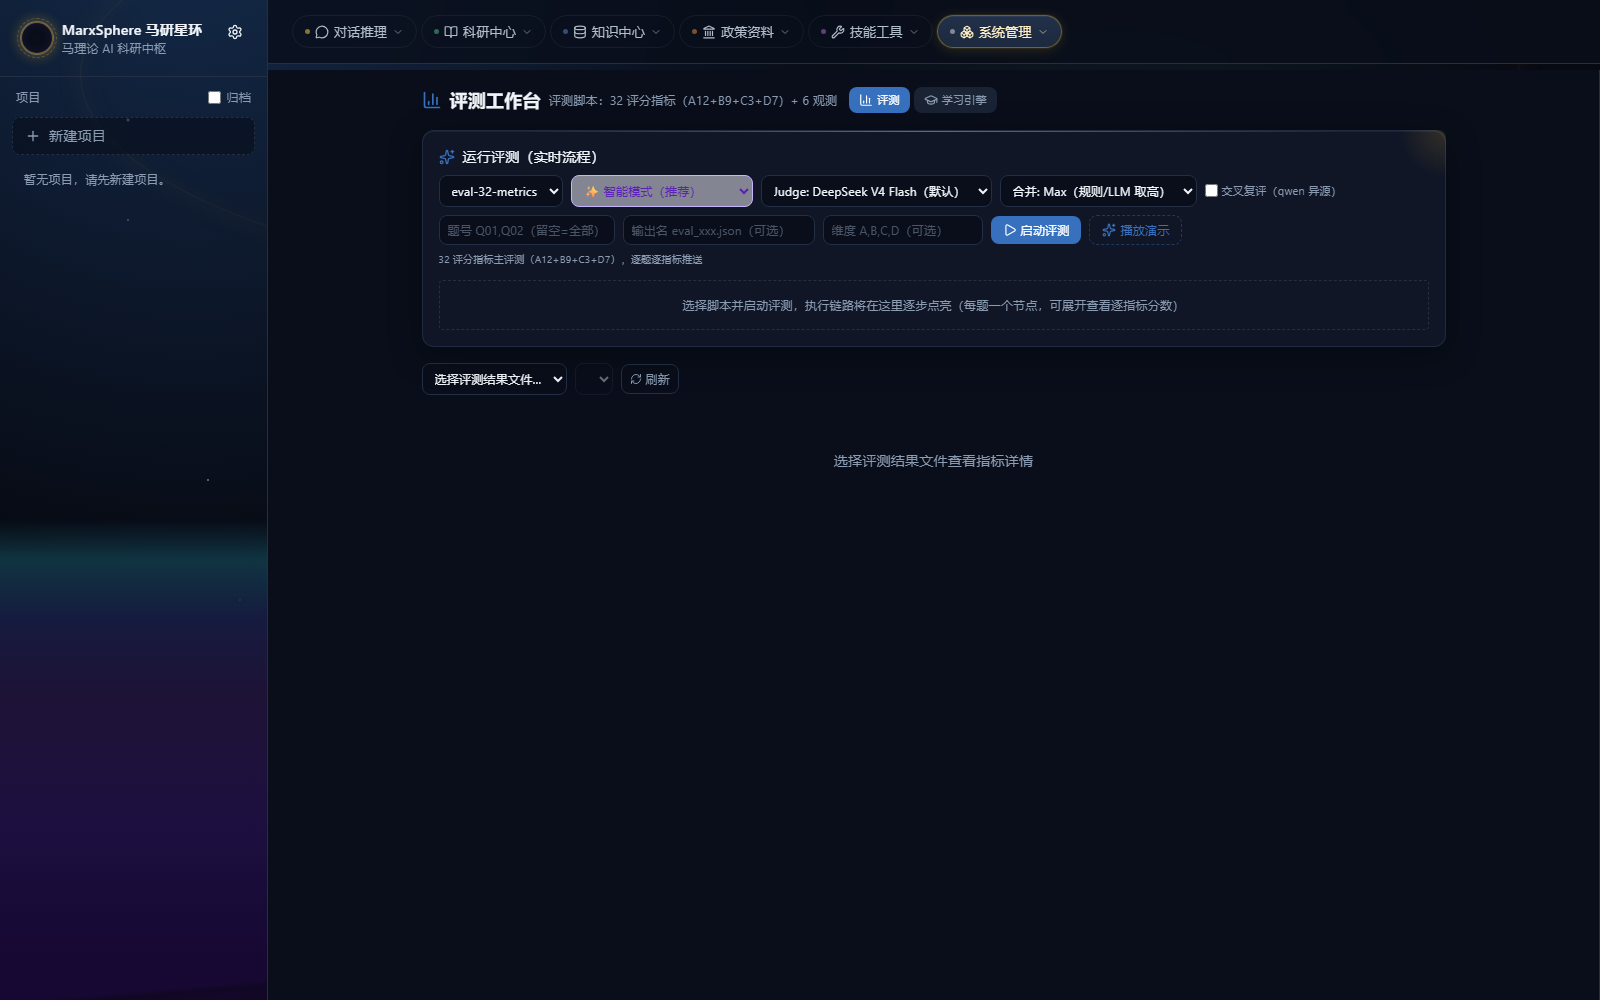
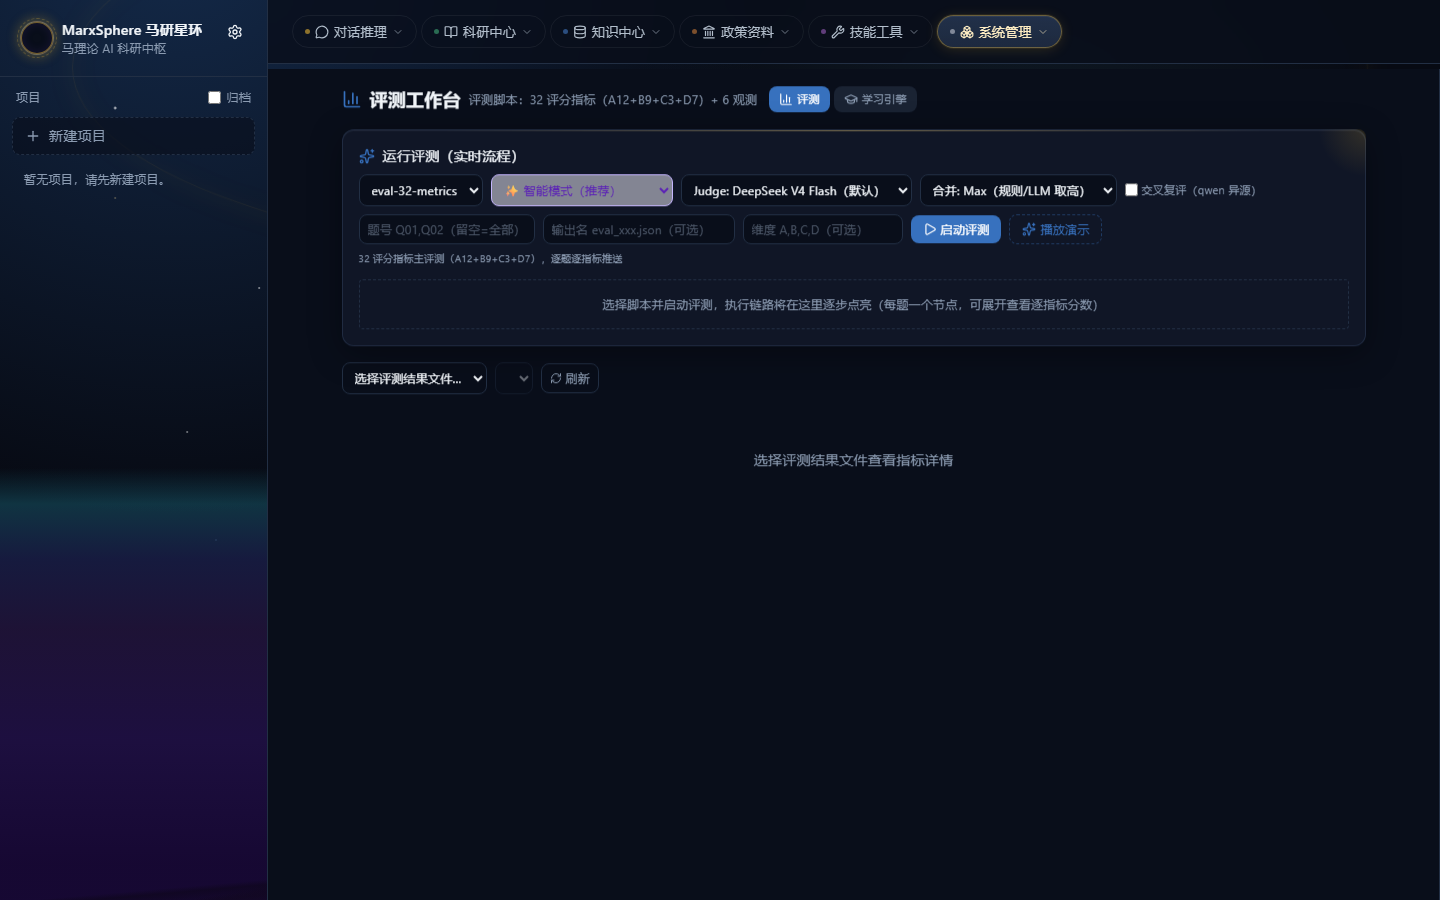
docs: 运行截图更新 + 补齐社区标准文件（CoC/Issue 模板/PR 模板）
1. 截图刷新: AI 对话(668KB 新版)/Ask/推理/图谱/评测/首页 全部 8/18 重拍
2. CODE_OF_CONDUCT.md: Contributor Covenant 2.1（双语说明+联系邮箱）
3. .github/ISSUE_TEMPLATE/: bug_report + feature_request + config.yml
4. .github/PULL_REQUEST_TEMPLATE.md: 描述/关联Issue/验证清单/安全合规检查

diff --git a/CODE_OF_CONDUCT.md b/CODE_OF_CONDUCT.md
@@ -1,0 +1,65 @@
+# Contributor Covenant Code of Conduct
+
+## Our Pledge
+
+We as members, contributors, and leaders pledge to make participation in our
+community a harassment-free experience for everyone, regardless of age, body
+size, visible or invisible disability, ethnicity, sex characteristics, gender
+identity and expression, level of experience, education, socio-economic status,
+nationality, personal appearance, race, religion, or sexual identity
+and orientation.
+
+We pledge to act and interact in ways that contribute to an open, welcoming,
+diverse, inclusive, and healthy community.
+
+## Our Standards
+
+Examples of behavior that contributes to a positive environment for our
+community include:
+
+* Demonstrating empathy and kindness toward other people
+* Being respectful of differing opinions, viewpoints, and experiences
+* Giving and gracefully accepting constructive feedback
+* Accepting responsibility and apologizing to those affected by our mistakes,
+  and learning from the experience
+* Focusing on what is best not just for us as individuals, but for the
+  overall community
+
+Examples of unacceptable behavior include:
+
+* The use of sexualized language or imagery, and sexual attention or
+  advances of any kind
+* Trolling, insulting or derogatory comments, and personal or political attacks
+* Public or private harassment
+* Publishing others' private information, such as a physical or email
+  address, without their explicit permission
+* Other conduct which could reasonably be considered inappropriate in a
+  professional setting
+
+## Enforcement Responsibilities
+
+Community leaders are responsible for clarifying and enforcing our standards of
+acceptable behavior and will take appropriate and fair corrective action in
+response to any behavior that they deem inappropriate, threatening, offensive,
+or harmful.
+
+## Scope
+
+This Code of Conduct applies within all community spaces, and also applies when
+an individual is officially representing the community in public spaces.
+
+## Enforcement
+
+Instances of abusive, harassing, or otherwise unacceptable behavior may be
+reported to the community leaders responsible for enforcement at
+**2665834886@qq.com**.
+
+All complaints will be reviewed and investigated promptly and fairly.
+
+## Attribution
+
+This Code of Conduct is adapted from the [Contributor Covenant][homepage],
+version 2.1, available at
+https://www.contributor-covenant.org/version/2/1/code_of_conduct.html.
+
+[homepage]: https://www.contributor-covenant.org

diff --git a/.github/ISSUE_TEMPLATE/bug_report.md b/.github/ISSUE_TEMPLATE/bug_report.md
@@ -1,0 +1,42 @@
+---
+name: Bug report
+about: 报告一个缺陷（Bug report）
+title: "[Bug] "
+labels: bug
+assignees: ''
+
+---
+
+## 描述（Describe the bug）
+
+清晰描述这个 Bug 是什么。
+
+## 复现步骤（To Reproduce）
+
+1. 打开 '...'
+2. 点击 '....'
+3. 滚动到 '....'
+4. 看到错误
+
+## 预期行为（Expected behavior）
+
+你期望发生什么。
+
+## 实际行为（Actual behavior）
+
+实际发生了什么（附截图/日志）。
+
+## 环境（Environment）
+
+- 运行方式：Web (5173/4173) / 桌面端 (Electron) / Docker
+- 操作系统: Windows 11 / macOS / Linux
+- 浏览器（如适用）: Chrome / Edge / Firefox
+- 版本: 提交号或 Release 标签
+
+## 日志（Logs）
+
+粘贴相关日志（注意脱敏：移除 API key / 个人路径）。
+
+## 其他（Additional context）
+
+任何其他有助于定位的信息。

diff --git a/.github/PULL_REQUEST_TEMPLATE.md b/.github/PULL_REQUEST_TEMPLATE.md
@@ -1,0 +1,43 @@
+## 描述（Description）
+
+请简要描述此 PR 的内容和目的。
+
+## 关联 Issue（Related issues）
+
+Fixes #（填写 issue 编号）
+
+## 改动内容（Changes）
+
+- [ ] 新增功能
+- [ ] Bug 修复
+- [ ] 文档更新
+- [ ] 重构/优化
+- [ ] 其他
+
+请列出主要改动点：
+
+1. 
+2. 
+3. 
+
+## 验证（Testing）
+
+- [ ] `npm run typecheck` 通过
+- [ ] `npm test`（154 项）通过
+- [ ] 手动验证了相关功能
+
+验证步骤说明：
+
+## 安全与合规（Security）
+
+- [ ] 未引入密钥/令牌/敏感信息
+- [ ] 未引入个人路径（如 C:\Users\...）
+- [ ] 环境变量新增已同步 `.env.example`
+
+## 截图（Screenshots）
+
+如有 UI 改动，请附截图。
+
+## 其他（Additional context）
+
+任何补充说明。

diff --git a/.github/ISSUE_TEMPLATE/feature_request.md b/.github/ISSUE_TEMPLATE/feature_request.md
@@ -1,0 +1,34 @@
+---
+name: Feature request
+about: 建议新功能（Feature request）
+title: "[Feature] "
+labels: enhancement
+assignees: ''
+
+---
+
+## 需求描述（Is your feature request related to a problem?）
+
+清晰描述你想要的功能及其解决的问题。
+
+## 建议方案（Describe the solution you'd like）
+
+你期望的实现方式。
+
+## 替代方案（Describe alternatives you've considered）
+
+其他可选方案。
+
+## 关联模块（Relevant modules）
+
+- [ ] AI 对话 / Agent
+- [ ] 推理 / 检索（52 步链路 / Ask）
+- [ ] 知识图谱（Graphiti / Cognee / PG）
+- [ ] 科研场景 / 教育
+- [ ] 桌面端（Electron）
+- [ ] 文档 / 评测
+- [ ] 其他
+
+## 其他（Additional context）
+
+任何补充信息。
